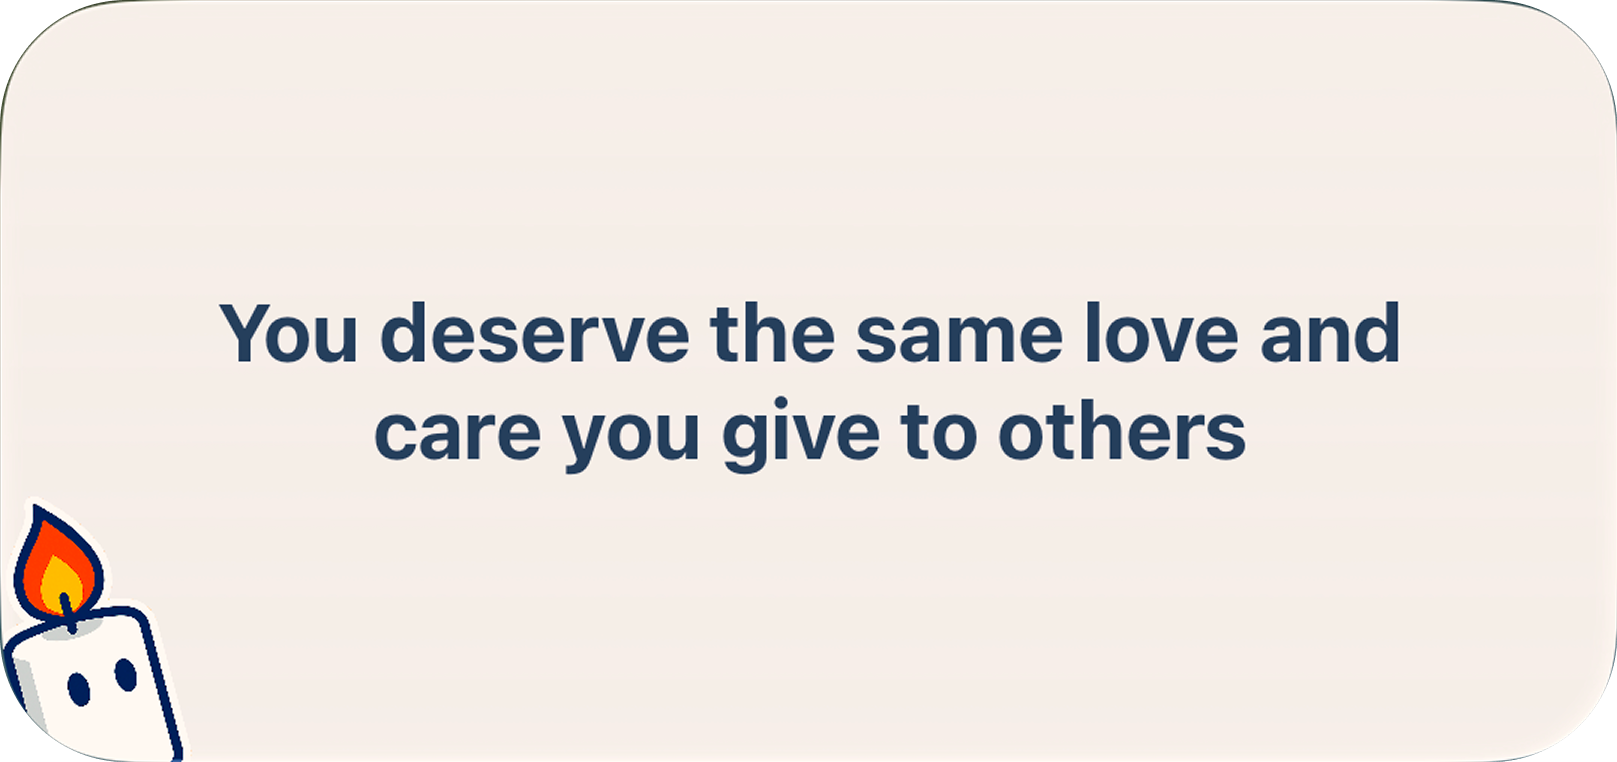
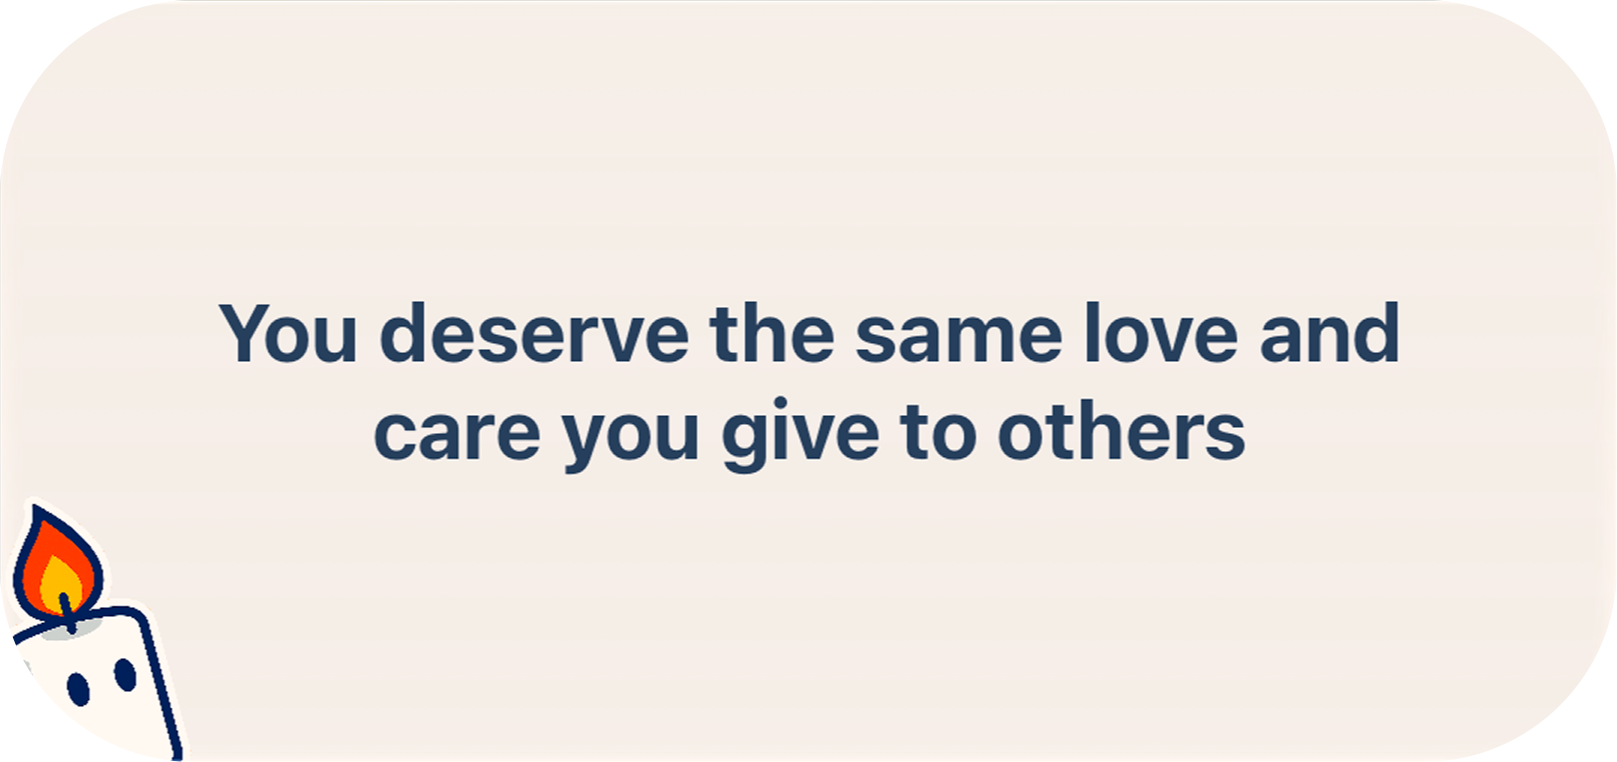
phone design done

diff --git a/app/page.tsx b/app/page.tsx
@@ -7,9 +7,9 @@ export default function Home() {
       <section className="max-w-5xl mx-auto px-6 py-12 lg:py-20">
         <div className="grid lg:grid-cols-2 gap-12 lg:gap-20 items-center">
           {/* Left Column - Content */}
-          <div className="space-y-8 lg:space-y-10">
+          <div className="space-y-8 lg:space-y-10 text-center lg:text-left">
             {/* Logo and Brand */}
-            <div className="flex items-center gap-3">
+            <div className="flex items-center gap-3 justify-center lg:justify-start">
               <Image
                 src="/icon.png"
                 alt="Glow Icon"
@@ -33,7 +33,7 @@ export default function Home() {
             {/* Download Button */}
             <a
               href="#"
-              className="inline-flex items-center gap-3 bg-primary hover:bg-primary/90 text-white font-semibold px-8 py-4 rounded-full transition-all shadow-lg hover:shadow-xl"
+              className="flex w-full justify-center lg:inline-flex lg:w-auto items-center gap-3 bg-primary hover:bg-primary/90 text-white font-semibold px-8 py-4 rounded-full transition-all shadow-lg hover:shadow-xl"
             >
               <svg
                 className="w-6 h-6"
@@ -63,19 +63,22 @@ export default function Home() {
       <section className="max-w-5xl mx-auto px-6 py-16 lg:py-24">
         <div className="mb-12">
           <h3 className="text-4xl lg:text-5xl font-bold text-foreground mb-4">
-            The basics, but better
+            Simple by design
           </h3>
+          <p className="text-xl text-foreground/70">
+            Simple features designed to actually fit into your life
+          </p>
         </div>
 
-        <div className="grid md:grid-cols-3 gap-8 lg:gap-6 items-stretch">
+        <div className="grid md:grid-cols-3 gap-8 lg:gap-6 items-stretch grid-rows-[1fr_auto_auto]">
           {/* Widgets Card */}
-          <div className="space-y-4 flex flex-col">
-            <div className="relative bg-white rounded-3xl overflow-hidden flex flex-col justify-between h-full shadow-[0_0_20px_rgba(0,0,0,0.08)] gap-4">
+          <div className="grid grid-rows-subgrid row-span-3 gap-4">
+            <div className="relative bg-white rounded-3xl overflow-hidden flex flex-col justify-between shadow-[0_0_20px_rgba(0,0,0,0.08)] gap-4">
               <div className="px-6 pt-4">
                 <img
                   src="/large-widget.png"
                   alt="Large Widget"
-                  className="w-full h-auto rounded-4xl shadow-md"
+                  className="w-full h-auto rounded-[55px] shadow-md"
                 />
               </div>
               <div className="px-6">
@@ -86,35 +89,44 @@ export default function Home() {
                 />
               </div>
             </div>
-            <h4 className="text-2xl font-bold text-foreground">Widgets</h4>
+            <h4 className="text-2xl font-bold text-foreground mt-2">Widgets</h4>
             <p className="text-foreground/70">
-              Stay updated with beautiful home screen widgets
+            Add quotes directly to your home screen. New wisdom every hour, no need to open the app. 
             </p>
           </div>
 
           {/* Daily Reminders Card */}
-          <div className="space-y-4 flex flex-col">
-            <div className="relative bg-white rounded-3xl overflow-hidden flex items-start justify-center h-full px-4 pb-4 shadow-[0_0_20px_rgba(0,0,0,0.08)]">
-              <img
-                src="/notifications.png"
-                alt="Notifications"
-                className="w-full h-auto"
-              />
+          <div className="grid grid-rows-subgrid row-span-3 gap-4">
+            <div className="relative bg-white rounded-3xl overflow-hidden flex items-start justify-center shadow-[0_0_20px_rgba(0,0,0,0.08)]">
+              <div className="px-12 pb-8">
+
+                <img
+                  src="/notifications.png"
+                  alt="Notifications"
+                  className="w-full h-auto"
+                />
+              </div>
             </div>
-            <h4 className="text-2xl font-bold text-foreground">Daily Reminders</h4>
+            <h4 className="text-2xl font-bold text-foreground mt-2">Gentle nudges</h4>
             <p className="text-foreground/70">
-              Stay on track with helpful notifications
+            Choose when you need support most. Your schedule, your timing.
             </p>
           </div>
 
           {/* Categories Card */}
-          <div className="space-y-4 flex flex-col">
-            <div className="aspect-square relative bg-white rounded-3xl flex items-center justify-center h-full shadow-[0_0_20px_rgba(0,0,0,0.08)]">
-              <div className="text-6xl">📊</div>
+          <div className="grid grid-rows-subgrid row-span-3 gap-4">
+            <div className="relative bg-white rounded-3xl overflow-hidden flex flex-col justify-end shadow-[0_0_20px_rgba(0,0,0,0.08)]">
+              <div className="px-12 pt-8">
+                <img
+                  src="/categories.png"
+                  alt="Categories"
+                  className="w-full h-auto"
+                />
+              </div>
             </div>
-            <h4 className="text-2xl font-bold text-foreground">Categories</h4>
+            <h4 className="text-2xl font-bold text-foreground mt-2">Categories</h4>
             <p className="text-foreground/70">
-              Organize your expenses with custom categories
+            Pick from unique categories for focused support. Or blend multiple categories together to create your perfect mix.
             </p>
           </div>
         </div>
